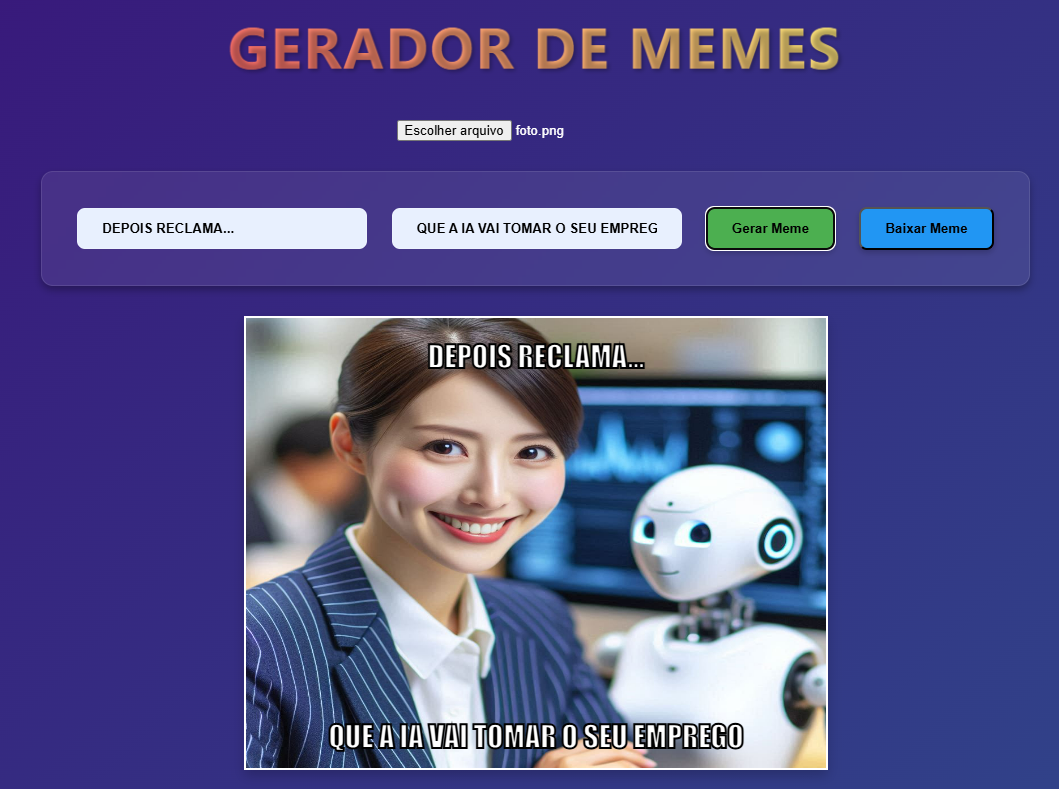
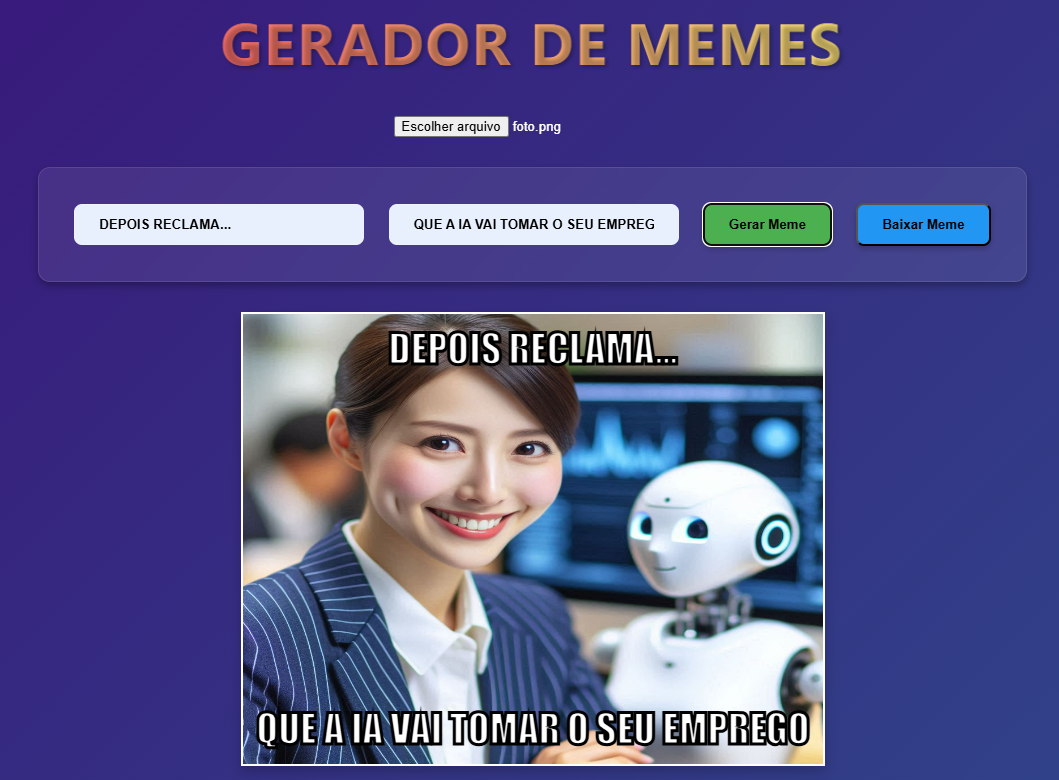
Ajustes
- Tamanho do texto
- Quebra de linha
- Texto dentro da imagem

diff --git a/script.js b/script.js
@@ -3,7 +3,7 @@ const ctx = canvas.getContext('2d');
 const imageInput = document.getElementById('imageInput');
 let uploadedImage = null;
 
-// Load the image onto the canvas
+// Carrega a imagem selecionada no canvas
 imageInput.addEventListener('change', (event) => {
   const file = event.target.files[0];
   const reader = new FileReader();
@@ -20,40 +20,89 @@ imageInput.addEventListener('change', (event) => {
   reader.readAsDataURL(file);
 });
 
-// Draw image and text on canvas
+// Função para desenhar texto com quebra automática e ajuste de posição
+function drawText(text, isTop) {
+  if (!text) return;
+
+  const maxWidth = canvas.width - 40; // Largura máxima com margem de 20px
+  let fontSize = 40;
+  ctx.font = `${fontSize}px Impact`;
+  let lines = [];
+  const words = text.split(' ');
+  
+  if (words.length === 0) return;
+  
+  let currentLine = words[0];
+  
+  // Divide o texto em linhas que cabem na largura do canvas
+  for (let i = 1; i < words.length; i++) {
+    const word = words[i];
+    const testLine = currentLine + ' ' + word;
+    const testWidth = ctx.measureText(testLine).width;
+    
+    if (testWidth > maxWidth) {
+      lines.push(currentLine);
+      currentLine = word;
+    } else {
+      currentLine = testLine;
+    }
+  }
+  lines.push(currentLine);
+  
+  // Ajusta o tamanho da fonte para caber na largura
+  let maxLineWidth = Math.max(...lines.map(line => ctx.measureText(line).width));
+  while (maxLineWidth > maxWidth && fontSize > 10) {
+    fontSize -= 2;
+    ctx.font = `${fontSize}px Helvetica Neue Bold, Arial Black, sans-serif`;
+    maxLineWidth = Math.max(...lines.map(line => ctx.measureText(line).width));
+  }
+
+  // Inverte linhas para texto inferior (desenha de baixo para cima)
+  if (!isTop) lines = lines.reverse();
+
+  // Configurações visuais
+  const lineHeight = fontSize * 1.2;
+  const yStart = isTop 
+    ? 20 // Texto superior começa no topo
+    : canvas.height - 20 - lineHeight; // Texto inferior começa na base
+
+  ctx.fillStyle = 'white';
+  ctx.strokeStyle = 'black';
+  ctx.lineWidth = Math.max(3, Math.floor(fontSize / 10));
+  ctx.textAlign = 'center';
+  ctx.textBaseline = 'top';
+
+  // Desenha cada linha considerando a direção
+  lines.forEach((line, index) => {
+    const yPosition = isTop 
+      ? yStart + index * lineHeight 
+      : yStart - index * lineHeight; // Subtrai para subir no texto inferior
+
+    ctx.fillText(line, canvas.width / 2, yPosition);
+    ctx.strokeText(line, canvas.width / 2, yPosition);
+  });
+}
+
+// Função principal para desenhar imagem e textos
 function drawImage() {
   if (uploadedImage) {
-    // Clear canvas and set canvas dimensions to fit the image
     ctx.clearRect(0, 0, canvas.width, canvas.height);
     ctx.drawImage(uploadedImage, 0, 0, canvas.width, canvas.height);
 
-    // Get text values
     const topText = document.getElementById('topText').value;
     const bottomText = document.getElementById('bottomText').value;
 
-    // Set text styles
-    ctx.font = '30px Impact';
-    ctx.fillStyle = 'white';
-    ctx.strokeStyle = 'black';
-    ctx.lineWidth = 2;
-    ctx.textAlign = 'center';
-
-    // Draw top text
-    ctx.fillText(topText, canvas.width / 2, 50);
-    ctx.strokeText(topText, canvas.width / 2, 50);
-
-    // Draw bottom text
-    ctx.fillText(bottomText, canvas.width / 2, canvas.height - 20);
-    ctx.strokeText(bottomText, canvas.width / 2, canvas.height - 20);
+    drawText(topText, true); // Desenha texto superior
+    drawText(bottomText, false); // Desenha texto inferior
   }
 }
 
-// Generate meme by drawing text on the uploaded image
+// Gera o meme ao clicar no botão
 function generateMeme() {
   drawImage();
 }
 
-// Download the meme as an image
+// Baixa o meme como imagem PNG
 function downloadMeme() {
   const link = document.createElement('a');
   link.download = 'meme.png';

diff --git a/style.css b/style.css
@@ -11,7 +11,6 @@ body {
     position: relative;
 }
 
-/* Novo estilo para o título h1 */
 h1 {
     font-size: 3.5em;
     background: linear-gradient(45deg, #FF6B6B, #FFEE7C);
